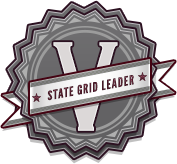
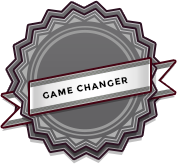
update badge images; fix rank 1->2 for welcome center

diff --git a/app/assets/javascripts/dashboard/controller.js b/app/assets/javascripts/dashboard/controller.js
@@ -124,10 +124,11 @@
           }
         },
         purchase: function() {
-          var course = Utility.findBranch($scope.goals, { event_type: 'purchase' });
-          var courseId = course.product_id;
-          var receipt = Utility.findBranch($scope.goals, { class: 'purchase' });
-          var receiptId = receipt.properties.product_id;
+          var course, courseId, receipt, receiptId;
+          course = Utility.findBranch($scope.goals, { event_type: 'purchase' });
+          courseId = course.product_id;
+          receipt = Utility.findBranch($scope.goals, { class: 'purchase' });
+          if (receipt) receiptId = receipt.properties.product_id;
           if (courseId === receiptId) {
             $scope.courseProgress = 'purchased';
             return 100;

diff --git a/app/assets/javascripts/dashboard/templates/sections/welcome.html b/app/assets/javascripts/dashboard/templates/sections/welcome.html
@@ -48,7 +48,7 @@
               ng-if="requirement.properties.event_type === 'purchase'"
               ng-class="{ half: goals.requirements.length === 2,
                           full: goals.requirements.length === 1 }">
-              <span class="progress-text">{{courseProgress || 'not purchased'}}</span>
+              <span class="progress-text">{{courseProgress || 'course incomplete'}}</span>
               <div class="green bar hold"  style="width : {{calculateProgress(requirement)}}"></div>
               <!-- <div class="label below"></div> -->
             </div>

diff --git a/app/assets/stylesheets/dashboard/welcome.scss b/app/assets/stylesheets/dashboard/welcome.scss
@@ -230,10 +230,9 @@
       img.badge {
         z-index: 50;
         position: absolute;
-        right: -80px;
-        bottom: -80px;
-        width: 118px;
-        height: 109px;
+        right: -90px;
+        width: 130px;
+        top: -45px;
 
         &.half {
           bottom: -75px;
